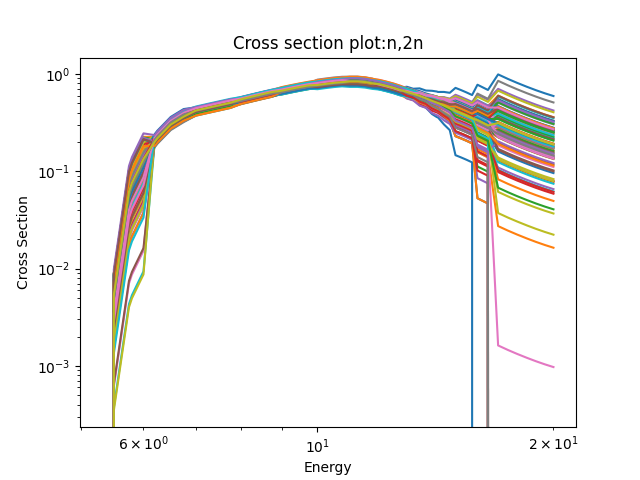
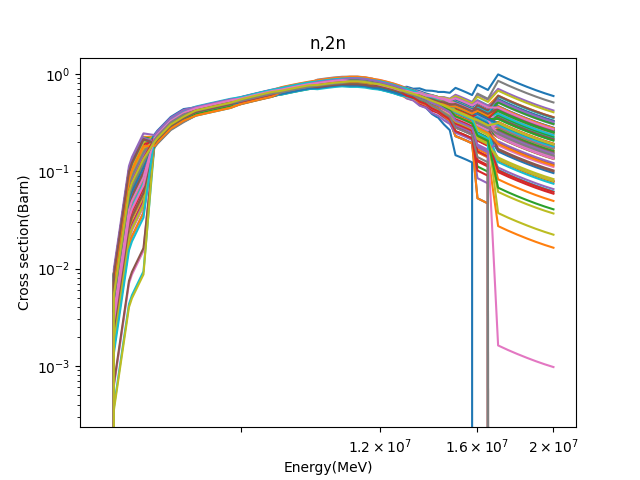
fixat plots

diff --git a/bin_sol.py b/bin_sol.py
@@ -1,6 +1,7 @@
 import os
 import matplotlib.pyplot as plt
 import pyne.ace
+import pyne.rxname as rx
 import numpy as np
 from pyne.rxname import *
 from tkinter import Tk
@@ -31,7 +32,7 @@ def ace_directory(dir=0):
         directory = dir
     return directory
 
-def choose_csv(reaction_ind):
+def choose_csv(reaction_ind, directory):
     """
     Prompts the user to either choose a sensitivity vector by creating a Tkinter root window or fetch a sensiivity vector
     from a specified textfile generated with Dice. The sensitivity vectors is then saved in one vector with energies and one
@@ -59,7 +60,7 @@ def choose_csv(reaction_ind):
         sens_vector_energy = data[:, 0]
         sens_vector_values = data[:, 1]
     elif int(choice) == 2:
-        reaction_dict = total_reactions_txt()
+        reaction_dict = total_reactions_txt(directory)
         sens_vector_energy, sens_vector_values = reaction_dict[str(reaction_ind)]
     return sens_vector_energy, sens_vector_values
 
@@ -215,7 +216,7 @@ def add_reactions(directory):
                 total_dictionary = total_reactions_txt(directory) 
                 reaction_dict[reaction_ind] = total_dictionary
         else:
-            sens_vector_energy, sens_vector_values = choose_csv(reaction_ind)
+            sens_vector_energy, sens_vector_values = choose_csv(reaction_ind, directory)
             reaction_dict[reaction_ind] = [sens_vector_energy, sens_vector_values]
         choice = input("Do you want to add another reaction? [y/n]: ")
     return reaction_dict
@@ -408,7 +409,9 @@ def main():
     reaction_dir = add_reactions(directory)
     reactions_ind = list(reaction_dir.keys())
     central_file=central_file_decider(directory)
-    
+
+    name_dict = {16: "n,2n", 17:"n,3n", 37:"n,4n", 18:"fission", 2:"elastic" \
+                 ,4:"inelastic", 102:"n,gamma", 1: "total", 456:"prompt,nubar", 452:"nubar"}
     for reaction_ind in reactions_ind:
         results_vector = HMCcalc(reaction_dir, reaction_ind, directory, central_file)
         mean = np.mean(results_vector)
@@ -418,15 +421,15 @@ def main():
         plt.hist(results_vector, bins=25, density=False)
 
         # Set the plot title and axis labels
-        plt.title(f'% delta k_eff {reaction_ind}_xs')
-        plt.xlabel('% delta k_eff')
+        plt.title(r'$\Delta$ $k_{{eff}}$ ' + f' {name_dict[reaction_ind]}')
+        plt.xlabel(r'$\Delta$ $k_{{eff}}$ (pcm)')
         plt.ylabel('Number of Cases')
         plt.figtext(.65, .85, f"mean = {round(mean,4)}")
         plt.figtext(.65, .8, f"std dev = {round(std_dev,4)}")
         plt.figtext(.65, .75, f"kurtosis = {round(kurt,4)}")
         plt.figtext(.65, .7, f"skewness = {round(skewness,4)}")
 
-        plt.savefig(f'result_plots_binavg/figure_{reaction_ind}.png')
+        plt.savefig(f'result_plots_binavg/figure_{name_dict[reaction_ind]}_deltakeff.png')
         plt.clf()
         print(f"mean: {mean}")
         print(f"std dev: {std_dev}")

diff --git a/plot_xs_acefiles.py b/plot_xs_acefiles.py
@@ -1,5 +1,7 @@
 import os
 import matplotlib.pyplot as plt
+from matplotlib.ticker import LogLocator, MaxNLocator
+import matplotlib.ticker as ticker
 import pyne.ace
 import requests
 import numpy as np
@@ -15,7 +17,6 @@ from scipy.stats import norm, kurtosis
 
 
 directory = 'U235.nuss.10.10.2016'
-
 
 def cross_section(reaction_ind, ace_file, directory):
     """Picks out the cross sections from the ACE-files. 
@@ -77,8 +78,9 @@ def ace_reader(ace_file, directory):
 
 
 name_dict = {"n,2n":(16),"n,3n":(17),"n,4n":(37) \
-               ,"fission":(18), "elastic":(2) \
-                  ,"inelastic":(4), "n,gamma":(102) ,"total":(1), "promt,nubar":(456), "nubar":(452)}
+            ,"fission":(18), "elastic":(2) \
+                 ,"inelastic":(4), "n,gamma":(102) ,"total":(1), "promt,nubar":(456), "nubar":(452)}
+
 
 
 name_list = []
@@ -104,17 +106,24 @@ for reaction_ind in name_dict.values():
 
 
 for dict_key in plot_dict.keys():
+    print(dict_key)
     fig, axs = plt.subplots()
     # Step 3: Loop through the files in each set and plot the vectors on the corresponding subplot
     for i in plot_dict[dict_key].keys():
         y, x = plot_dict[dict_key][i]
+        x *= 1e+06
         axs.loglog(x, y)  # plot the vector and add a label
     
     # Step 4: Customize the subplots
-    axs.set_title(f'Cross section plot:{name_list[dict_key]}')
-    axs.set_xlabel("Energy")
-    axs.set_ylabel("Cross Section")
-    plt.savefig(f'cross_section_plots/figure_{name_list[dict_key]}.png')
+    if dict_key == 1 or 2:
+        axs.set_xticks([], minor=True)
+        axs.xaxis.set_major_locator(plt.MaxNLocator(5))
+    axs.set_title(f'{name_list[dict_key]}')
+    axs.set_xlabel("Energy(MeV)")
+    axs.set_ylabel("Cross section(Barn)")
 
-if os.path.exists('new_file.ace'):
+
+    plt.savefig(f'cross_section_plots/figure_{name_list[dict_key]}.png')
+    plt.clf
+if os.path.exists('new_file.ace'):  
     os.remove('new_file.ace')
